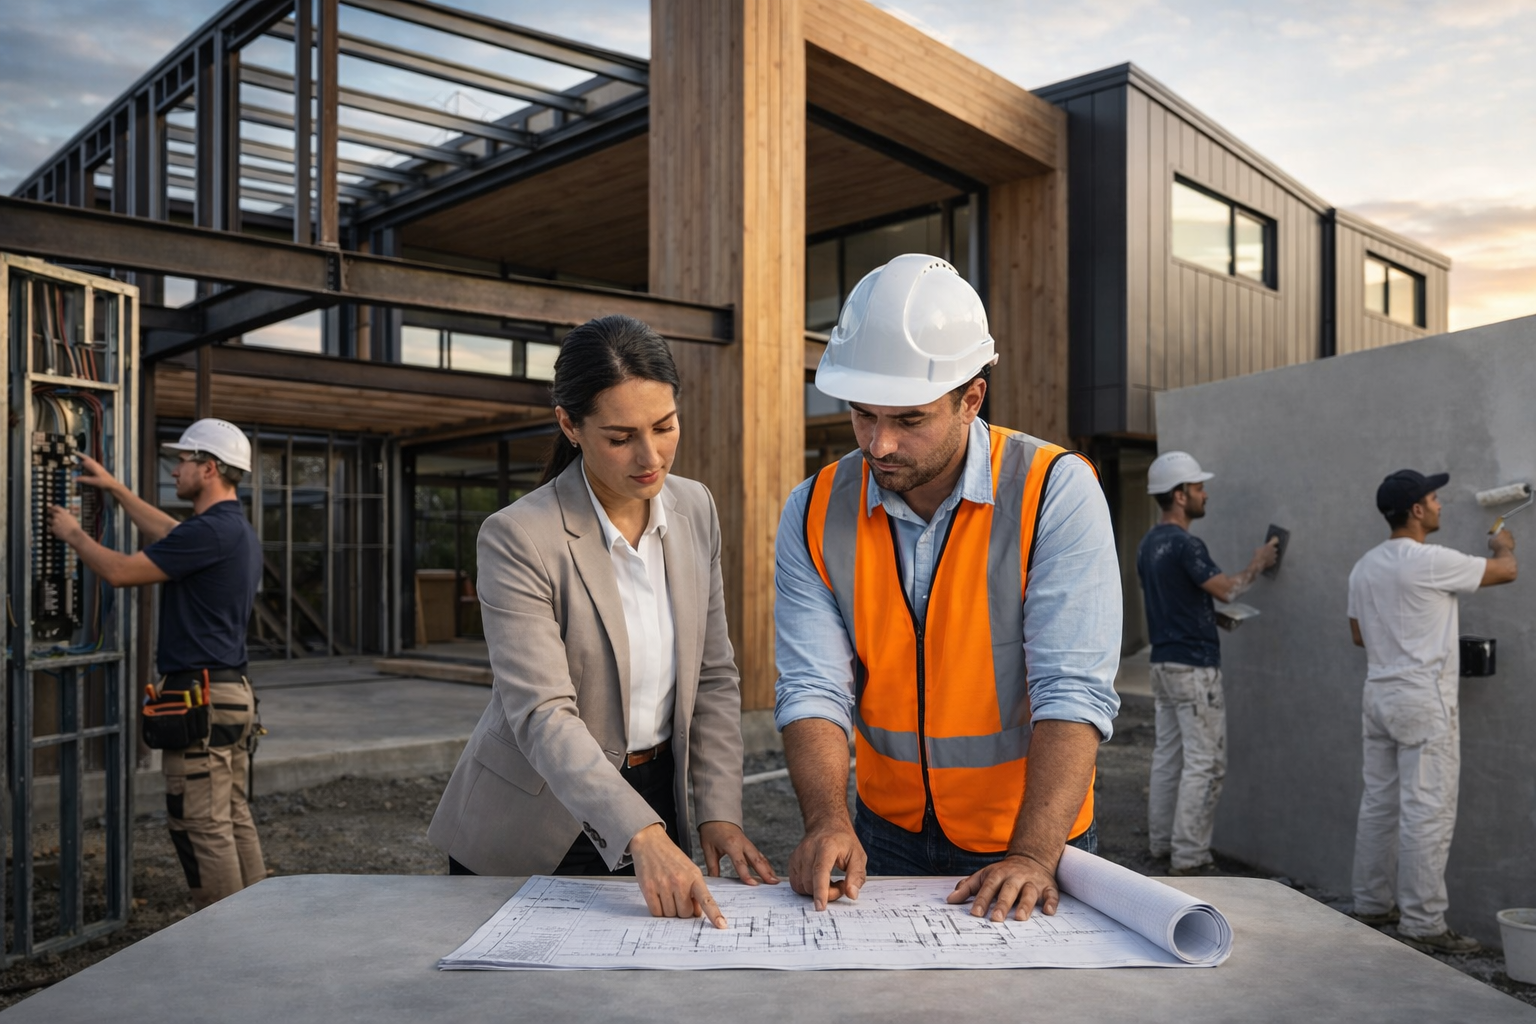
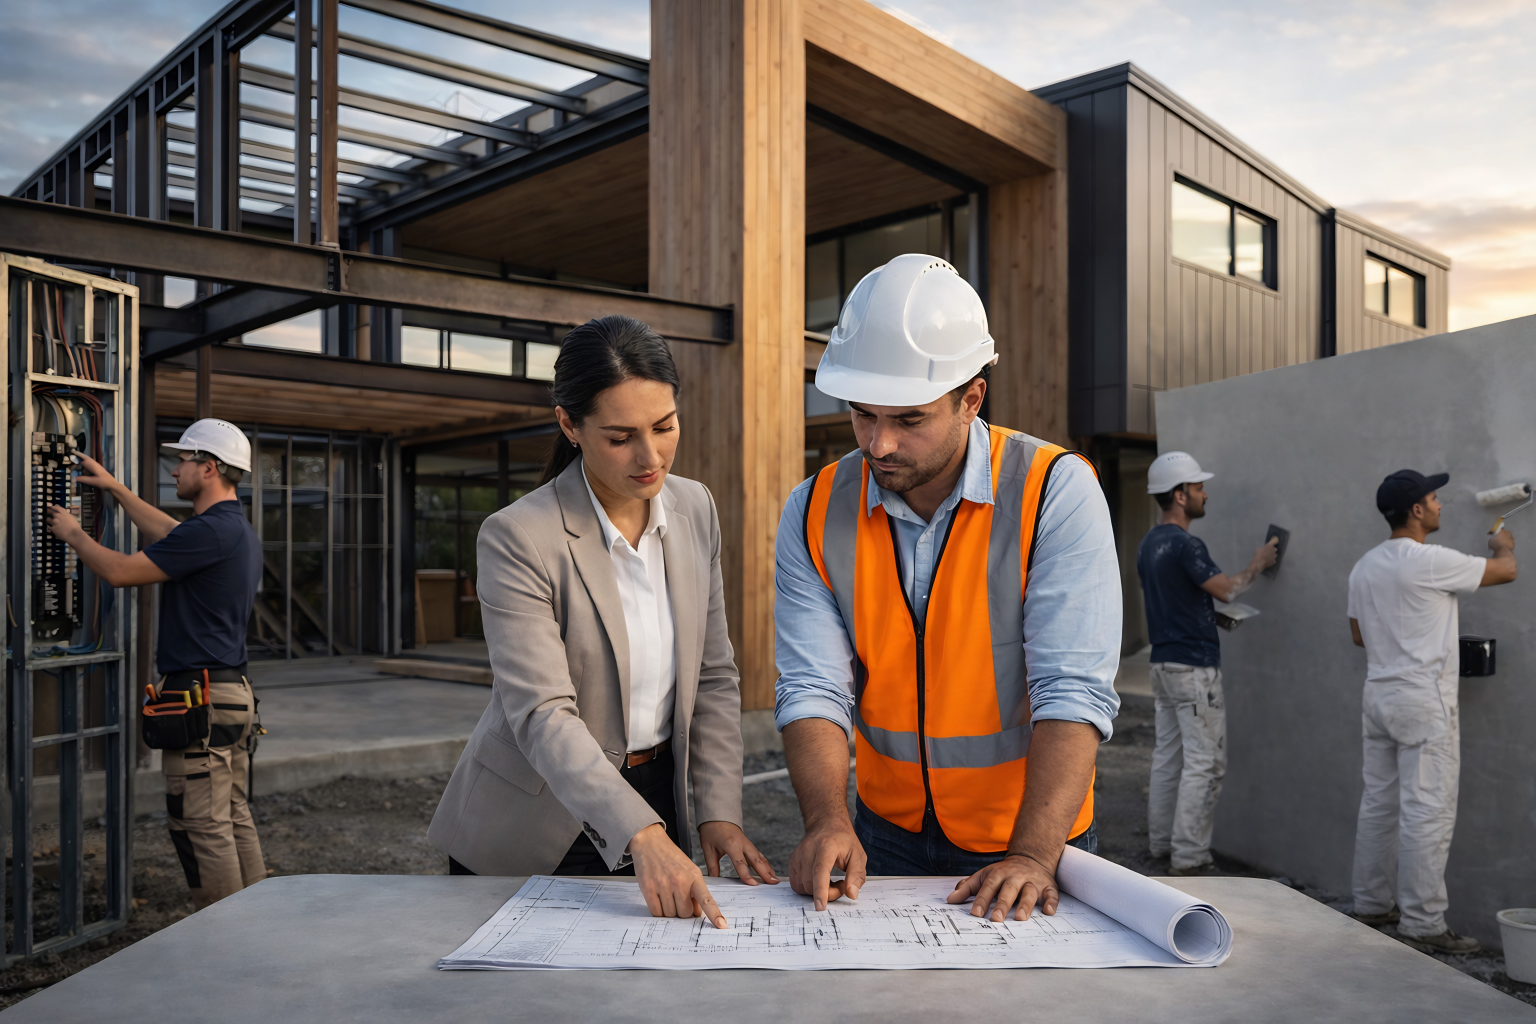
[overall updates .. ]

Changed region(s): [[0.0312, 0.2812, 0.0938, 0.375], [0.0, 0.4375, 0.0625, 0.5]]

diff --git a/src/data/homeContent.js b/src/data/homeContent.js
@@ -1,9 +1,9 @@
-import img1 from '../assets/landing page/landing page 1.jpeg';
+import img1 from '../assets/landing page/landing page 1.png';
 import img2 from '../assets/landing page/landing page 2.png';
 import img3 from '../assets/landing page/landing page 3.png';
 import img4 from '../assets/landing page/landing page 4.png';
 import img5 from '../assets/landing page/landing page 5.png';
-import img6 from '../assets/landing page/landing page 6 .jpeg';
+import img6 from '../assets/landing page/landing page 6.png';
 
 import srvImg1 from '../assets/our services/Nutech.png';
 import srvImg2 from '../assets/our services/container parks and conversions.png';
@@ -21,7 +21,6 @@ export const heroSlides = [
     image: img1,
     caption: 'Plans for Modern Living',
     category: 'Custom Nutec',
-    objectFit: 'contain',
     bgClass: 'bg-[#E4E4E4]',
   },
   {
@@ -48,7 +47,6 @@ export const heroSlides = [
     image: img6,
     caption: 'Retail, Reimagined',
     category: 'Container park',
-    objectFit: 'contain',
     bgClass: 'bg-[#050A14]',
   },
 ]
@@ -141,13 +139,14 @@ export const processTimeline = [
   'Handover',
 ]
 
-import port1 from '../assets/portfolio/Kids play areas.jpeg';
-import port2 from '../assets/portfolio/Classrooms for underprivileged children.jpeg';
-import port3 from '../assets/portfolio/Container feeding kitchens.jpeg';
-import port4 from '../assets/portfolio/Nutech classrooms.jpeg';
-import port5 from '../assets/portfolio/Office renovations.jpeg';
-import port6 from '../assets/portfolio/Nutech offices.jpeg';
-import port7 from '../assets/portfolio/Container kitchens.jpeg';
+import port1 from '../assets/portfolio/Kids play areas.png';
+import port2 from '../assets/portfolio/Classrooms for underprivileged children.png';
+import port3 from '../assets/portfolio/Container feeding kitchens.png';
+import port4 from '../assets/portfolio/Nutech classrooms.png';
+import port5 from '../assets/portfolio/Office renovations.png';
+import port6 from '../assets/portfolio/Nutech offices.png';
+import port7 from '../assets/portfolio/Container kitchens.png';
+import port8 from '../assets/portfolio/Medical suite Redesigned.png';
 
 export const projects = [
   {
@@ -185,6 +184,11 @@ export const projects = [
     summary: 'Customized container kitchen conversions providing durable, scalable, and efficient mobile culinary hubs for commercial demands.',
     image: port7,
   },
+  {
+    name: 'Precision Refurbishment: Modern Medical Suite',
+    summary: 'A complete transformation focused on care, compliance, and comfort, blending functionality with a clean, modern aesthetic.',
+    image: port8,
+  },
 ]
 
 export const testimonials = [
@@ -217,6 +221,12 @@ export const testimonials = [
       'I\'ve worked with Viky and GR Extra Space on many projects. His professionalism and work are executed exceptionally well — reliable and consistently outstanding.',
     client: 'Vivian Reddy',
     detail: 'Business Leader & Developer',
+  },
+  {
+    quote:
+      'The team is so good,such a pleasure to work with. Polite,neat and reliable.',
+    client: 'KERRY',
+    detail: 'Upperhighway baby home, SA',
   },
 ]
 

diff --git a/src/sections/about/MapHeroSection.jsx b/src/sections/about/MapHeroSection.jsx
@@ -38,7 +38,7 @@ const mapLocations = [
     country: 'United Kingdom',
     region: 'Berkshire',
     coordinates: [-1.2, 51.4], // Approx UK
-    color: '#0A192F', // brand-navy
+    color: '#D90429', // brand-red
     id: 'GBR',
   },
   {
@@ -106,7 +106,7 @@ export default function MapHeroSection() {
               style={{
                 width: "100%",
                 height: "auto",
-                filter: "drop-shadow(0px 8px 12px rgba(10, 25, 47, 0.15))"
+                filter: "drop-shadow(0px 16px 28px rgba(10, 25, 47, 0.2))"
               }}
             >
               <Geographies geography={geoUrl}>
@@ -117,8 +117,7 @@ export default function MapHeroSection() {
                     const isSA = geo.properties.iso_a3 === 'ZAF' || geo.properties.adm0_a3 === 'ZAF' || geo.id === '710' || geo.properties.name === 'South Africa';
                     
                     let fill = "#cbd2e0"; // Default inactive light grey
-                    if (isUK) fill = "#0A192F"; // brand-navy
-                    if (isSA) fill = "#D90429"; // brand-red
+                    if (isUK || isSA) fill = "#D90429"; // brand-red
 
                     return (
                       <Geography
@@ -128,8 +127,8 @@ export default function MapHeroSection() {
                         stroke="#ffffff"
                         strokeWidth={0.8}
                         style={{
-                          default: { outline: "none" },
-                          hover: { outline: "none", fill: isUK ? '#061226' : isSA ? '#A00320' : '#b0b8cc' },
+                          default: { outline: "none", transition: "all 250ms" },
+                          hover: { outline: "none", fill: (isUK || isSA) ? '#A00320' : '#b0b8cc', transition: "all 250ms" },
                           pressed: { outline: "none" },
                         }}
                       />

diff --git a/src/sections/PartnersMarquee.jsx b/src/sections/PartnersMarquee.jsx
@@ -8,6 +8,10 @@ import transnet from '../assets/brand logos/Transnet logo.png'
 import mondi from '../assets/brand logos/mondi group logo.webp'
 import npc from '../assets/brand logos/natal portland cement logo.png'
 import sibaya from '../assets/brand logos/Sibaya logo.png'
+import bnq from '../assets/brand logos/B n Q.png'
+import howdens from '../assets/brand logos/HOWDENS LOGO NEW.png'
+import wickes from '../assets/brand logos/WICKES LOGO NEW.svg'
+
 const brandLogos = [
   { name: 'Build It', src: buildIt },
   { name: 'Clover', src: clover },
@@ -17,6 +21,9 @@ const brandLogos = [
   { name: 'Mondi', src: mondi },
   { name: 'NPC', src: npc },
   { name: 'Sibaya', src: sibaya },
+  { name: 'B&Q', src: bnq },
+  { name: 'Howdens', src: howdens },
+  { name: 'Wickes', src: wickes },
 ]
 
 // Duplicate arrays to ensure seamless marquee scrolling
